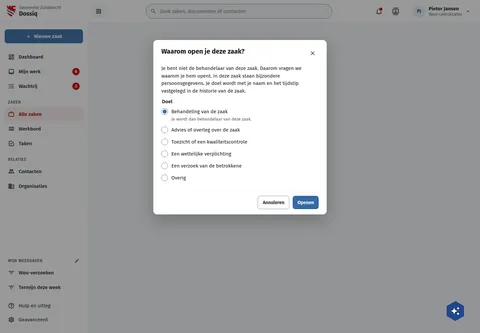
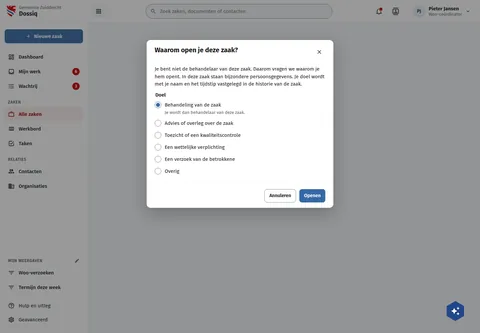
fix(screens): DqZaakDoel draws the dialog at NcDialog's size
r31: the board's dialog was 520 wide with its title 22px down and the
intro 30 under it; the app's NcDialog is 560 wide with its title 18px
down and the content 36 under it. The board now takes those.

Assisted-by: ClaudeCode:claude-opus-5-5

Changed region(s): [[0.2812, 0.1201, 0.7188, 0.6607]]

diff --git a/preview/screens/boards/DqZaakDoel.html b/preview/screens/boards/DqZaakDoel.html
@@ -141,12 +141,12 @@ a{color:var(--sc-primary, #3669a5)}a:hover{color:var(--sc-primary-deep, #234a78)
     </div>
   </div>
   <div style="position: absolute; inset: 0; background: rgba(27,28,29,0.45); display: flex; justify-content: center; align-items: flex-start; padding: 120px 16px 24px; box-sizing: border-box">
-    <div role="dialog" aria-modal="true" aria-labelledby="dlg-titel" style="width: 520px; max-width: 100%; background: #ffffff; border-radius: 12px; box-shadow: 0 16px 48px rgba(27,28,29,0.28); display: flex; flex-direction: column">
-      <div style="display: flex; justify-content: space-between; align-items: flex-start; gap: 16px; padding: 22px 24px 4px">
+    <div role="dialog" aria-modal="true" aria-labelledby="dlg-titel" style="width: 560px; max-width: 100%; background: #ffffff; border-radius: 12px; box-shadow: 0 16px 48px rgba(27,28,29,0.28); display: flex; flex-direction: column">
+      <div style="display: flex; justify-content: space-between; align-items: flex-start; gap: 16px; padding: 18px 24px 4px">
         <h2 id="dlg-titel" style="margin: 0; font-size: 20px; font-weight: 700">Waarom open je deze zaak?</h2>
         <button type="button" aria-label="Sluiten" style="width: 36px; height: 36px; border: 0; border-radius: 18px; background: transparent; color: var(--sc-work-text, #3d4047); display: inline-flex; align-items: center; justify-content: center"><svg width="20" height="20" viewbox="0 0 24 24" fill="currentColor" aria-hidden="true"><path d="M19,6.41L17.59,5L12,10.59L6.41,5L5,6.41L10.59,12L5,17.59L6.41,19L12,13.41L17.59,19L19,17.59L13.41,12L19,6.41Z"></path></svg></button>
       </div>
-      <div style="padding: 12px 24px 20px; display: flex; flex-direction: column; gap: 12px">
+      <div style="padding: 18px 24px 20px; display: flex; flex-direction: column; gap: 12px">
         <p style="margin: 0; font-size: 15px; line-height: 1.5">Je bent niet de behandelaar van deze zaak. Daarom vragen we waarom je hem opent. In deze zaak staan bijzondere persoonsgegevens. Je doel wordt met je naam en het tijdstip vastgelegd in de historie van de zaak.</p>
         <fieldset style="margin: 0; padding: 0; border: 0; display: flex; flex-direction: column; gap: 2px">
           <legend style="margin-bottom: 4px; font-weight: 600; font-size: 15px">Doel</legend>

diff --git a/screens-src/zuiddrecht/DqZaakDoel.dc.html b/screens-src/zuiddrecht/DqZaakDoel.dc.html
@@ -23,12 +23,12 @@ a{color:#3669a5}a:hover{color:#234a78}
     </div>
   </div>
   <div style="position: absolute; inset: 0; background: rgba(27,28,29,0.45); display: flex; justify-content: center; align-items: flex-start; padding: 120px 16px 24px; box-sizing: border-box">
-    <div role="dialog" aria-modal="true" aria-labelledby="dlg-titel" style="width: 520px; max-width: 100%; background: #ffffff; border-radius: 12px; box-shadow: 0 16px 48px rgba(27,28,29,0.28); display: flex; flex-direction: column">
-      <div style="display: flex; justify-content: space-between; align-items: flex-start; gap: 16px; padding: 22px 24px 4px">
+    <div role="dialog" aria-modal="true" aria-labelledby="dlg-titel" style="width: 560px; max-width: 100%; background: #ffffff; border-radius: 12px; box-shadow: 0 16px 48px rgba(27,28,29,0.28); display: flex; flex-direction: column">
+      <div style="display: flex; justify-content: space-between; align-items: flex-start; gap: 16px; padding: 18px 24px 4px">
         <h2 id="dlg-titel" style="margin: 0; font-size: 20px; font-weight: 700">Waarom open je deze zaak?</h2>
         <button type="button" aria-label="Sluiten" style="width: 36px; height: 36px; border: 0; border-radius: 18px; background: transparent; color: #3d4047; display: inline-flex; align-items: center; justify-content: center"><svg width="20" height="20" viewBox="0 0 24 24" fill="currentColor" aria-hidden="true"><path d="M19,6.41L17.59,5L12,10.59L6.41,5L5,6.41L10.59,12L5,17.59L6.41,19L12,13.41L17.59,19L19,17.59L13.41,12L19,6.41Z"></path></svg></button>
       </div>
-      <div style="padding: 12px 24px 20px; display: flex; flex-direction: column; gap: 12px">
+      <div style="padding: 18px 24px 20px; display: flex; flex-direction: column; gap: 12px">
         <p style="margin: 0; font-size: 15px; line-height: 1.5">Je bent niet de behandelaar van deze zaak. Daarom vragen we waarom je hem opent. In deze zaak staan bijzondere persoonsgegevens. Je doel wordt met je naam en het tijdstip vastgelegd in de historie van de zaak.</p>
         <fieldset style="margin: 0; padding: 0; border: 0; display: flex; flex-direction: column; gap: 2px">
           <legend style="margin-bottom: 4px; font-weight: 600; font-size: 15px">Doel</legend>
